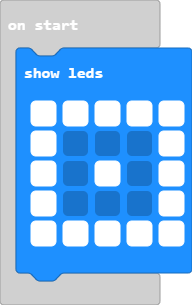
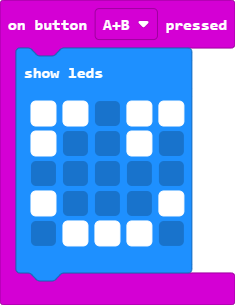
Update main.blocks, main.ts

diff --git a/main.ts b/main.ts
@@ -1,6 +1,15 @@
 input.onButtonPressed(Button.A, function () {
     basic.showIcon(IconNames.Happy)
 })
+input.onButtonPressed(Button.AB, function () {
+    basic.showLeds(`
+        # # . # #
+        # . . # .
+        . . . . .
+        # . . . #
+        . # # # .
+        `)
+})
 input.onButtonPressed(Button.B, function () {
     basic.showIcon(IconNames.Sad)
 })
